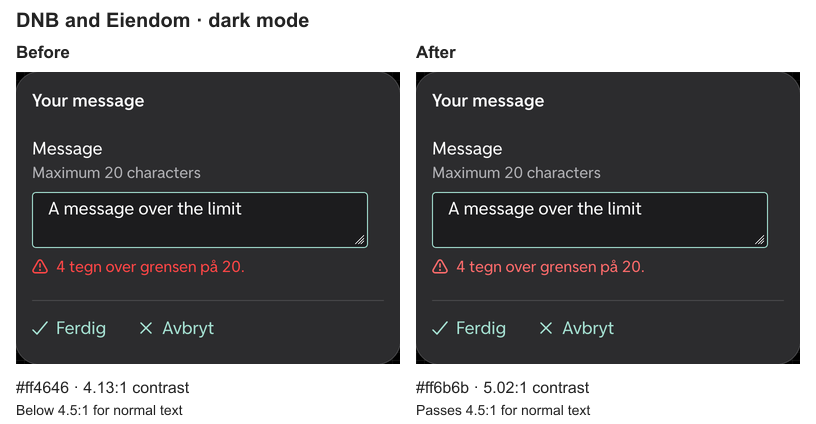
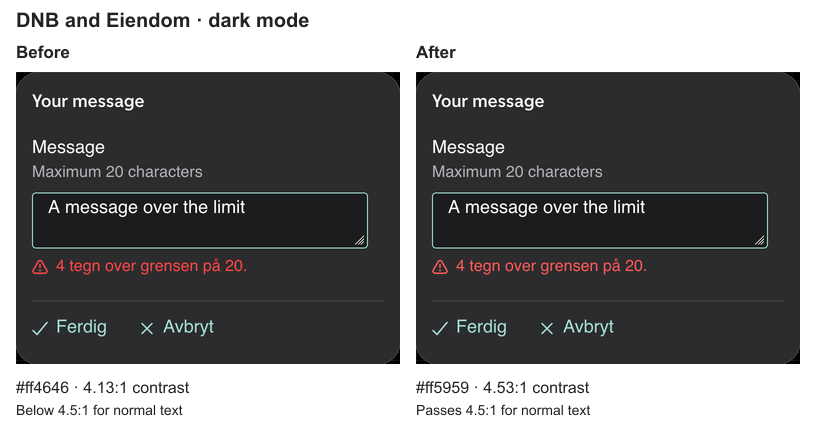
Update PR 10472 images with approved palette colors [skip ci]

diff --git a/README.md b/README.md
@@ -1,1 +1,1 @@
-Before/after images for Eufemia PR #10472. Captured from the real filled Form.Section example at 6a4b84ba938. Before uses the error-text token from base d99492e2882; after uses the PR token. Layout, content, backgrounds, icons/strokes and all other CSS remain identical. Only the inherited error text color changes; the counter warning icon inherits that text color. DNB and Eiendom share the same palette.
+Before/after images for PR #10472 after UX feedback. The real filled form-section example is rendered with original base error colors before and approved foundation colors after: DNB/Eiendom #FF5959, Sbanken #FF8099. Backgrounds and layout stay the same. Error text and the counter icon inheriting its color are visible in this sample. The PR also updates palette-aligned error icons, strokes and the DNB destructive pressed-button fill.
